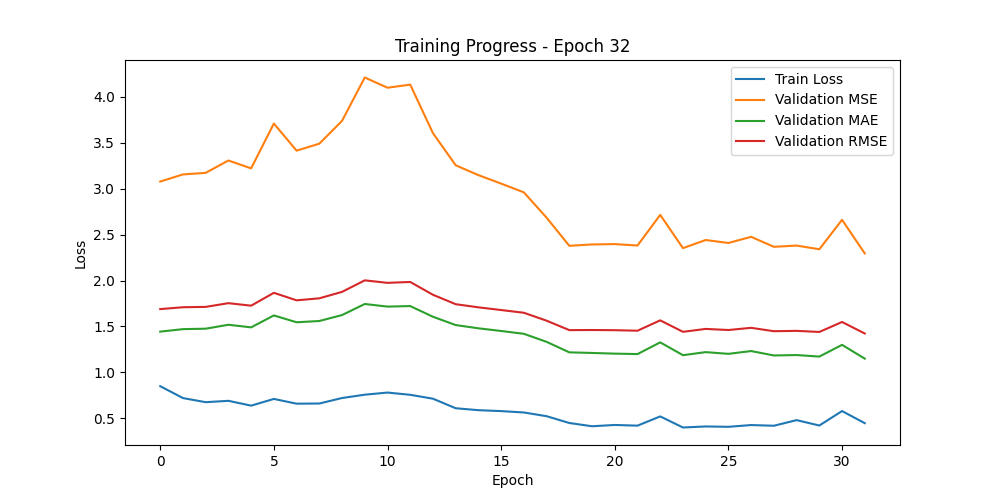
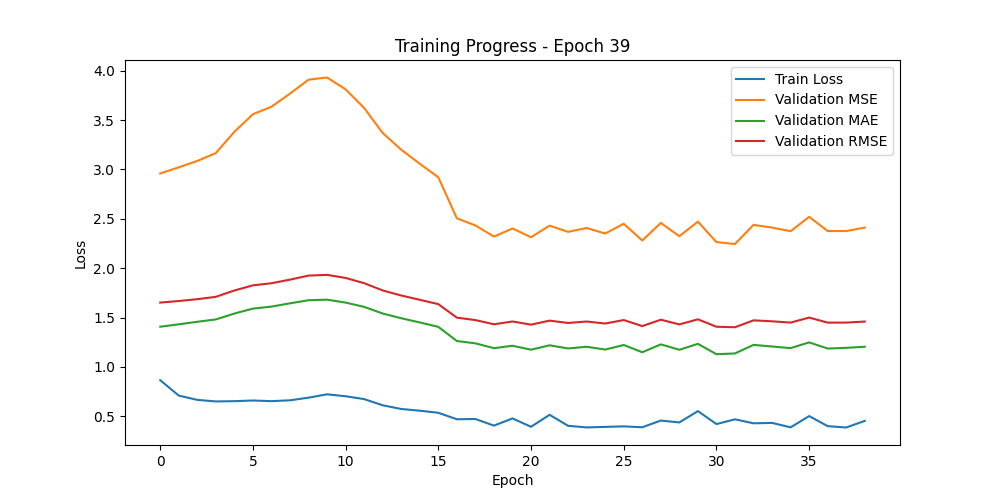
- Change model name - Change OUTPUT_MONTHS from 6 to 1 - Change ATTENTION_HEADS from 16 to 128 - Change LAYER_COUNT from 6 to 4

diff --git a/_INFORMER/_MAIN_V2.py b/_INFORMER/_MAIN_V2.py
@@ -39,14 +39,14 @@ else:
 
 # ------------------------------- PARAMETERS -----------------------------------------------------------
 INPUT_MONTHS = 36
-OUTPUT_MONTHS = 6
+OUTPUT_MONTHS = 1
 BATCH_SIZE = 32 # the model processes BATCH_SIZE different sequences of INPUT_MONTHS months each at a time.
 LEARNING_RATE = 0.001
 PATIENCE = 50 # how many epochs the validation loss should not improve before the training stops
 #
 EMBEDING_SIZE = 2048 # size of the embeddings
-ATTENTION_HEADS = 16 # number of attention heads
-LAYER_COUNT = 6 # number of layers
+ATTENTION_HEADS = 128 # number of attention heads
+LAYER_COUNT = 4 # number of layers
 DROPOUT_RATE = 0.2
 #
 DEFAULTS_EPOCHS = 1000
@@ -57,6 +57,8 @@ print("Parsed parameters:", parameters)
 QUESTIONS = False if 'questions' in parameters and parameters['questions'] else True
 EPOCHS = int(parameters.get('epochs') or parameters.get('epoch') or DEFAULTS_EPOCHS)
 PERCENTAGE_DATA_USED_FOR_TRAINING = float(parameters.get('percentage_training') or DEFAULTS_PERCENTAGE_DATA_USED_FOR_TRAINING)
+# --------------------------------------------------------------------------------------------------------
+model_filename = f"best_informer_model_inp{INPUT_MONTHS}_out{OUTPUT_MONTHS}_emb{EMBEDING_SIZE}_heads{ATTENTION_HEADS}_layers{LAYER_COUNT}.pth"
 # --------------------------------------------------------------------------------------------------------
 
 # Prepare the dataset or get it from file
@@ -176,9 +178,10 @@ for epoch in range(EPOCHS):
     # Save the best model based on validation MSE
     if avg_val_mse < best_val_loss:
         best_val_loss = avg_val_mse
-        torch.save(model.cpu().state_dict(), 'models/best_informer_model.pth')
+        torch.save(model.cpu().state_dict(), f'models/{model_filename}')
         model.to(device)  # Move it back to GPU after saving
         print(f"New best model saved with validation MSE: {best_val_loss:.4f}")
+        print(f"New best model saved as '{model_filename}' with validation MSE: {best_val_loss:.4f}")
         no_improve_epochs = 0
     else:
         no_improve_epochs += 1
